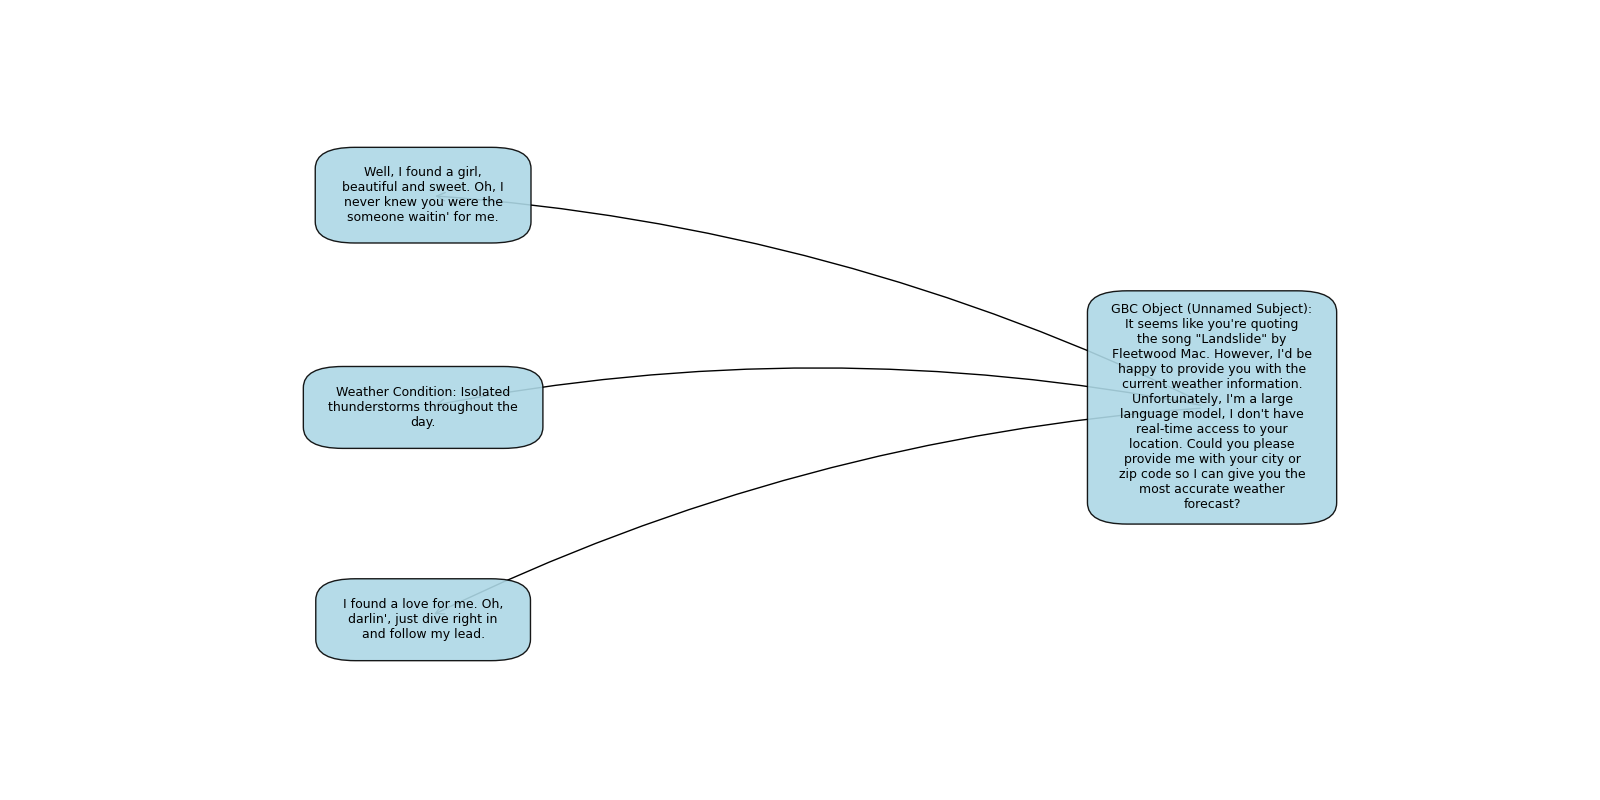
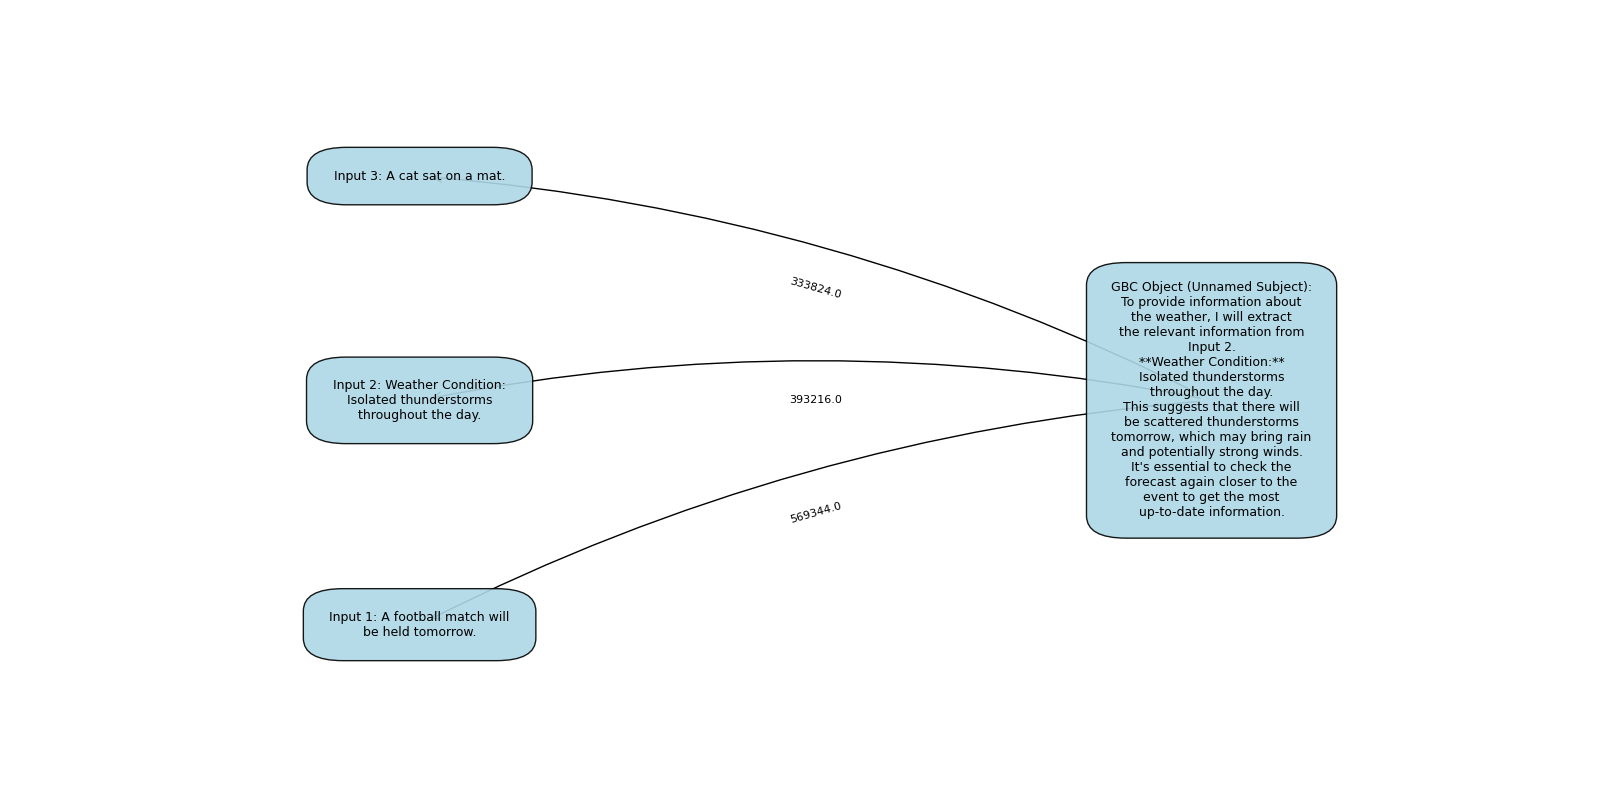
Llama model examples updated

diff --git a/examples/llama_model_examples/llama_model_example_w_tool.py b/examples/llama_model_examples/llama_model_example_w_tool.py
@@ -1,3 +1,6 @@
+import torch
+from transformers import BitsAndBytesConfig
+
 from agentchord import GBC
 from agentchord.gbc_object import GBCBase, visualize_gbc_tree
 from agentchord.model import ModelConfig, ModelFactory
@@ -9,9 +12,17 @@ from agentchord.utils import (
     TOOL_HEADER,
 )
 
+bnb_config = BitsAndBytesConfig(
+    load_in_4bit = True,
+    bnb_4bit_use_double_quant = True,
+    bnb_4bit_quant_type = "nf4",
+    bnb_4bit_compute_dtype = torch.bfloat16
+)
+
 config = ModelConfig(
     local_model="LlamaModel",
     model_path="/shared/storage-01/users/xy61/models/Llama3.1-8B-Instruct",
+    quantization_config=bnb_config,
     max_new_tokens=1024,
     # temperature=0.0,
     do_sample=False,
@@ -22,31 +33,31 @@ config = ModelConfig(
 model_factory = ModelFactory(config)
 model = model_factory.create_model()
 input_content = GBC(
-    value = f"{INPUT_HEADER}I found a love for me. Oh, darlin', just dive right in and follow my lead.{INPUT_SEPARATOR}Weather Condition: Isolated thunderstorms throughout the day.{INPUT_SEPARATOR}Well, I found a girl, beautiful and sweet. Oh, I never knew you were the someone waitin' for me.{INPUT_FOOTER}",
+    value = f"{INPUT_HEADER}Input 1: A football match will be held tomorrow.{INPUT_SEPARATOR}Input 2: Weather Condition: Isolated thunderstorms throughout the day.{INPUT_SEPARATOR}Input 3: A cat sat on a mat.{INPUT_FOOTER}",
     connections= [
-        "I found a love for me. Oh, darlin', just dive right in and follow my lead.",
-        "Weather Condition: Isolated thunderstorms throughout the day.",
-        "Well, I found a girl, beautiful and sweet. Oh, I never knew you were the someone waitin' for me."
+        "Input 1: A football match will be held tomorrow.",
+        "Input 2: Weather Condition: Isolated thunderstorms throughout the day.",
+        "Input 3: A cat sat on a mat."
     ]
 )
 txt1 = GBC(
-    value = "I found a love for me. Oh, darlin', just dive right in and follow my lead.",
+    value = "Input 1: A football match will be held tomorrow.",
     connections=[
-        "I found a love for me. Oh, darlin', just dive right in and follow my lead."
+        "Input 1: A football match will be held tomorrow."
     ],
     weights=[1.0]
 )
 txt2 = GBC(
-    value = "Weather Condition: Isolated thunderstorms throughout the day.",
+    value = "Input 2: Weather Condition: Isolated thunderstorms throughout the day.",
     connections=[
-        "Weather Condition: Isolated thunderstorms throughout the day."
+        "Input 2: Weather Condition: Isolated thunderstorms throughout the day."
     ],
     weights=[1.0]
 )
 txt3 = GBC(
-    value = "Well, I found a girl, beautiful and sweet. Oh, I never knew you were the someone waitin' for me.",
+    value = "Input 3: A cat sat on a mat.",
     connections=[
-        "Well, I found a girl, beautiful and sweet. Oh, I never knew you were the someone waitin' for me.",
+        "Input 3: A cat sat on a mat.",
     ],
     weights=[1.0]
 )
@@ -71,7 +82,7 @@ tool_result = GBC(
     ]
 )
 messages = [
-    {"role": "system", "content": "You are a helpful agent that can output information about today's weather based on the input. You have to report the answer using the Response tool."},
+    {"role": "system", "content": "You are a helpful agent that can extract information about today's weather based on the input. Important: You have to use the response tool to respond. Put the response in the tool result."},
     {"role": "user", "content": input_content},
     {"role": "assistant", "content": None, 'tool_calls': [{'function': {'arguments': '{"city":"champaign"}', 'name': 'query_weather'}, 'id': 'call_xBGr1c7JqAnbRMbkzM2F68ob', 'type': 'function'}]},
     {'role': 'tool', 'tool_call_id': 'call_xBGr1c7JqAnbRMbkzM2F68ob', 'name': 'query_weather', 'content': tool_result}
@@ -93,12 +104,35 @@ tools = [
                 "required": ["response"]
             }
         }
+    },
+    {
+        "type": "function",
+        "function": {
+            "name": "query_weather",
+            "description": "Query the weather based on the input.",
+            "parameters": {
+                "type": "object",
+                "properties": {
+                    "city": {
+                        "type": "string",
+                        "description": "The city for which to query the weather."
+                    }
+                },
+                "required": ["city"]
+            }
+        }
     }
 ]
 
 response = model.completion(messages, tools=tools)
 print(response)
-output = response.choices[0].message.gbc_tool_calls
-print(f"Is the output a GBC object? {isinstance(output, GBCBase)}")
-print(f"Class of the output: {output.__class__.__name__}")
-visualize_gbc_tree(response.choices[0].message.gbc_tool_calls, save_path="examples/llama_model_examples/llama_model_example_w_tool.png")
+try:
+    output = response.choices[0].message.gbc_tool_calls
+    print(f"Is the output a GBC object? {isinstance(output, GBCBase)}")
+    print(f"Class of the output: {output.__class__.__name__}")
+    visualize_gbc_tree(response.choices[0].message.gbc_tool_calls, save_path="examples/llama_model_examples/llama_model_example_w_tool.png")
+except:
+    output = response.choices[0].message.gbc_content
+    print(f"Is the output a GBC object? {isinstance(output, GBCBase)}")
+    print(f"Class of the output: {output.__class__.__name__}")
+    visualize_gbc_tree(response.choices[0].message.gbc_content, save_path="examples/llama_model_examples/llama_model_example_w_tool.png")

diff --git a/examples/llama_model_examples/llama_model_example.py b/examples/llama_model_examples/llama_model_example.py
@@ -27,15 +27,15 @@ config = ModelConfig(
 model_factory = ModelFactory(config)
 model = model_factory.create_model()
 input_content = GBC(
-    value = f"{INPUT_HEADER}I found a love for me. Oh, darlin', just dive right in and follow my lead.{INPUT_SEPARATOR}Weather Condition: Isolated thunderstorms throughout the day.{INPUT_SEPARATOR}Well, I found a girl, beautiful and sweet. Oh, I never knew you were the someone waitin' for me.{INPUT_FOOTER}",
+    value = f"{INPUT_HEADER}Input 1: A football match will be held tomorrow.{INPUT_SEPARATOR}Input 2: Weather Condition: Isolated thunderstorms throughout the day.{INPUT_SEPARATOR}Input 3: A cat sat on a mat.{INPUT_FOOTER}",
     connections= [
-        "I found a love for me. Oh, darlin', just dive right in and follow my lead.",
-        "Weather Condition: Isolated thunderstorms throughout the day.",
-        "Well, I found a girl, beautiful and sweet. Oh, I never knew you were the someone waitin' for me."
+        "Input 1: A football match will be held tomorrow.",
+        "Input 2: Weather Condition: Isolated thunderstorms throughout the day.",
+        "Input 3: A cat sat on a mat."
     ]
 )
 messages = [
-    {"role": "system", "content": "You are a helpful agent that can output information about today's weather based on the input."},
+    {"role": "system", "content": "You are a helpful agent that can extract information about today's weather based on the input."},
     {"role": "user", "content": input_content}
 ]
 response = model.completion(messages)
